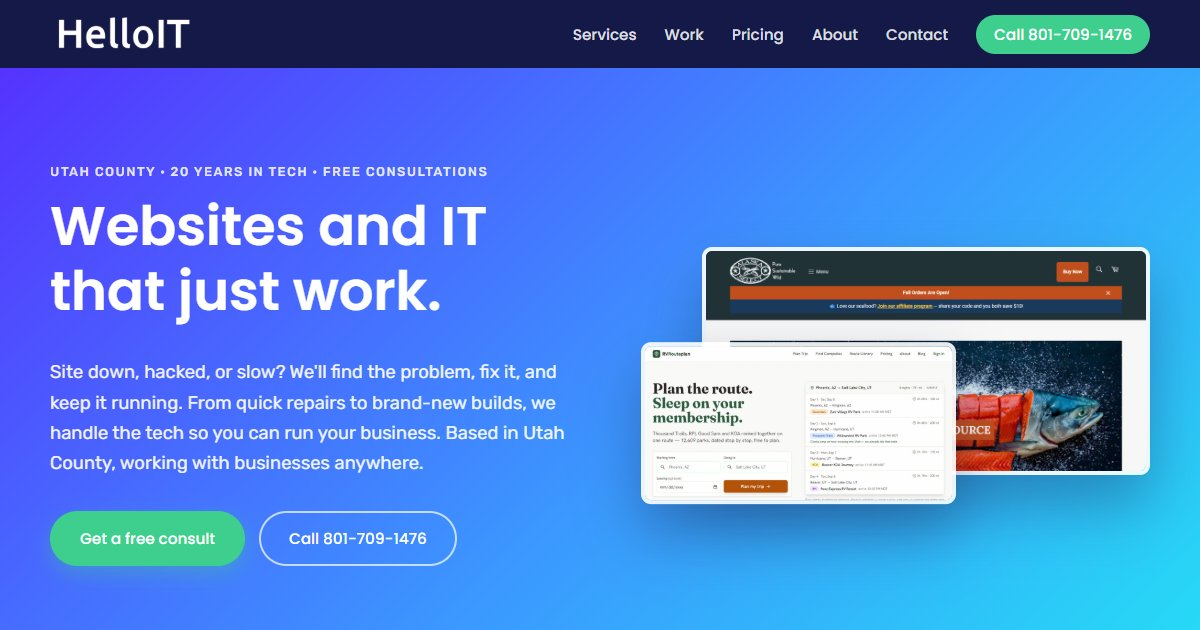
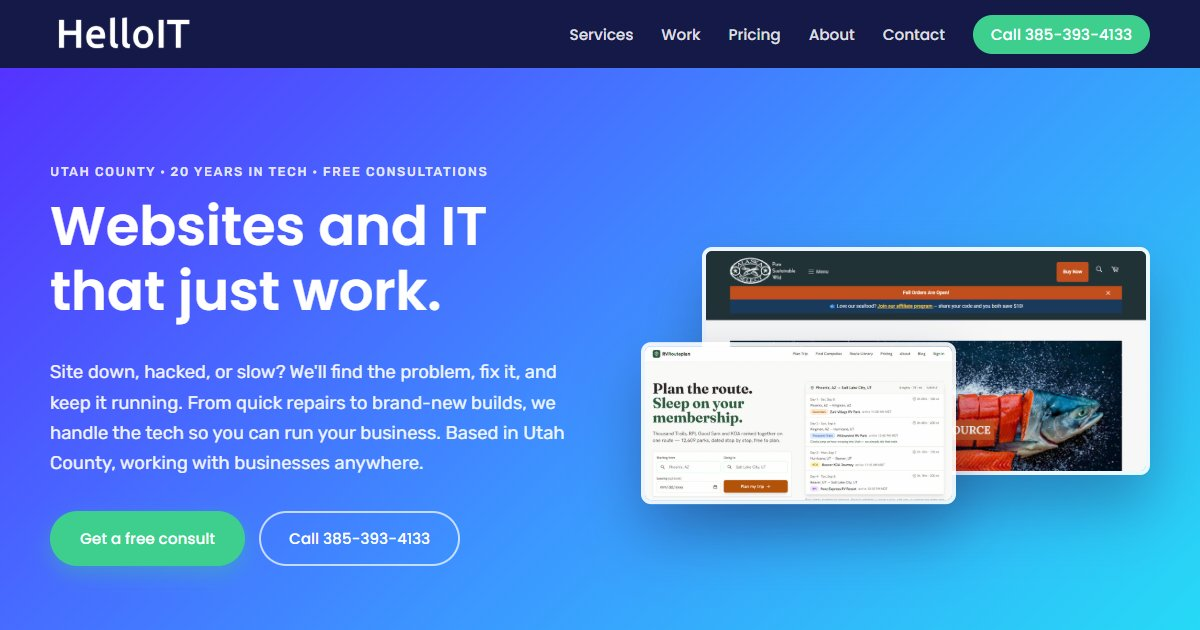
Switch public phone number to Google Voice line

Changed region(s): [[0.4625, 0.0302, 0.9558, 0.0905], [0.2775, 0.8143, 0.4008, 0.9048]]

diff --git a/index.html b/index.html
@@ -5,7 +5,7 @@
   <meta charset="utf-8">
   <meta name="viewport" content="width=device-width, initial-scale=1">
   <title>Website Repair, Web Design &amp; IT Support in Utah County | HelloIT</title>
-  <meta name="description" content="Site down, hacked, or slow? HelloIT fixes, builds, and maintains websites and provides IT support for Utah County businesses and beyond. Free consultations. Call 801-709-1476.">
+  <meta name="description" content="Site down, hacked, or slow? HelloIT fixes, builds, and maintains websites and provides IT support for Utah County businesses and beyond. Free consultations. Call 385-393-4133.">
   <link rel="canonical" href="https://buttonfortheinter.net/">
 
   <meta property="og:type" content="website">
@@ -24,7 +24,7 @@
     "url": "https://buttonfortheinter.net/",
     "logo": "https://buttonfortheinter.net/img/2.png",
     "image": "https://buttonfortheinter.net/img/share.jpg",
-    "telephone": "+1-801-709-1476",
+    "telephone": "+1-385-393-4133",
     "email": "hello@buttonfortheinter.net",
     "foundingDate": "2016",
     "address": { "@type": "PostalAddress", "addressRegion": "UT", "addressCountry": "US" },
@@ -50,7 +50,7 @@
   <header class="site-header">
     <nav class="container nav" aria-label="Main">
       <a href="index.html" class="nav-logo"><img src="img/logo.png" alt="HelloIT" width="250" height="70"></a>
-      <a class="nav-call-icon" href="tel:+18017091476" aria-label="Call 801-709-1476"><i class="lni-phone-handset"></i></a>
+      <a class="nav-call-icon" href="tel:+13853934133" aria-label="Call 385-393-4133"><i class="lni-phone-handset"></i></a>
       <button class="nav-toggle" type="button" aria-controls="nav-links" aria-expanded="false" aria-label="Toggle navigation">
         <i class="lni-menu"></i>
       </button>
@@ -60,7 +60,7 @@
         <li><a href="#pricing">Pricing</a></li>
         <li><a href="about-us.html">About</a></li>
         <li><a href="#contact">Contact</a></li>
-        <li><a class="nav-call" href="tel:+18017091476">Call 801-709-1476</a></li>
+        <li><a class="nav-call" href="tel:+13853934133">Call 385-393-4133</a></li>
       </ul>
     </nav>
   </header>
@@ -76,7 +76,7 @@
           <p>Site down, hacked, or slow? We'll find the problem, fix it, and keep it running. From quick repairs to brand-new builds, we handle the tech so you can run your business. Based in Utah County, working with businesses anywhere.</p>
           <div class="hero-actions">
             <a href="#contact" class="btn btn-primary">Get a free consult</a>
-            <a href="tel:+18017091476" class="btn btn-light">Call 801-709-1476</a>
+            <a href="tel:+13853934133" class="btn btn-light">Call 385-393-4133</a>
           </div>
         </div>
         <div class="hero-img hero-shots">
@@ -96,7 +96,7 @@
             Site still down, or hacked? Call now and talk directly to someone who can fix it.
           </div>
         </div>
-        <a href="tel:+18017091476" class="btn btn-primary">Call 801-709-1476</a>
+        <a href="tel:+13853934133" class="btn btn-primary">Call 385-393-4133</a>
       </div>
     </section>
 
@@ -366,7 +366,7 @@
           <aside class="contact-card">
             <h3>Prefer to talk?</h3>
             <p>Call or email directly. We usually respond within one business day.</p>
-            <a href="tel:+18017091476"><i class="lni-phone-handset"></i> 801-709-1476</a>
+            <a href="tel:+13853934133"><i class="lni-phone-handset"></i> 385-393-4133</a>
             <a href="mailto:hello@buttonfortheinter.net"><i class="lni-envelope"></i> hello@buttonfortheinter.net</a>
           </aside>
         </div>
@@ -386,7 +386,7 @@
           <li><a href="#pricing">Pricing</a></li>
           <li><a href="about-us.html">About</a></li>
           <li><a href="#contact">Contact</a></li>
-          <li><a href="tel:+18017091476">801-709-1476</a></li>
+          <li><a href="tel:+13853934133">385-393-4133</a></li>
         </ul>
       </div>
       <p class="copyright">&copy; <span id="year">2026</span> HelloIT LLC &middot; Utah County, Utah &middot; Websites and IT support since 2016.</p>

diff --git a/404.html b/404.html
@@ -22,7 +22,7 @@
   <header class="site-header">
     <nav class="container nav" aria-label="Main">
       <a href="/index.html" class="nav-logo"><img src="/img/logo.png" alt="HelloIT" width="250" height="70"></a>
-      <a class="nav-call-icon" href="tel:+18017091476" aria-label="Call 801-709-1476"><i class="lni-phone-handset"></i></a>
+      <a class="nav-call-icon" href="tel:+13853934133" aria-label="Call 385-393-4133"><i class="lni-phone-handset"></i></a>
       <button class="nav-toggle" type="button" aria-controls="nav-links" aria-expanded="false" aria-label="Toggle navigation">
         <i class="lni-menu"></i>
       </button>
@@ -32,7 +32,7 @@
         <li><a href="/index.html#pricing">Pricing</a></li>
         <li><a href="/about-us.html">About</a></li>
         <li><a href="/index.html#contact">Contact</a></li>
-        <li><a class="nav-call" href="tel:+18017091476">Call 801-709-1476</a></li>
+        <li><a class="nav-call" href="tel:+13853934133">Call 385-393-4133</a></li>
       </ul>
     </nav>
   </header>
@@ -47,7 +47,7 @@
     <section class="section">
       <div class="container prose">
         <p>We tried turning it off and on again, but this page still isn't here. It may have moved or never existed. Try the home page, or give us a call if you need help.</p>
-        <p><a class="btn btn-primary" href="/index.html">Go to home page</a> <a class="btn btn-outline" href="tel:+18017091476">Call 801-709-1476</a></p>
+        <p><a class="btn btn-primary" href="/index.html">Go to home page</a> <a class="btn btn-outline" href="tel:+13853934133">Call 385-393-4133</a></p>
       </div>
     </section>
   </main>
@@ -63,7 +63,7 @@
           <li><a href="/index.html#pricing">Pricing</a></li>
           <li><a href="/about-us.html">About</a></li>
           <li><a href="/index.html#contact">Contact</a></li>
-          <li><a href="tel:+18017091476">801-709-1476</a></li>
+          <li><a href="tel:+13853934133">385-393-4133</a></li>
         </ul>
       </div>
       <p class="copyright">&copy; <span id="year">2026</span> HelloIT LLC &middot; Utah County, Utah &middot; Websites and IT support since 2016.</p>

diff --git a/thanks.html b/thanks.html
@@ -22,7 +22,7 @@
   <header class="site-header">
     <nav class="container nav" aria-label="Main">
       <a href="index.html" class="nav-logo"><img src="img/logo.png" alt="HelloIT" width="250" height="70"></a>
-      <a class="nav-call-icon" href="tel:+18017091476" aria-label="Call 801-709-1476"><i class="lni-phone-handset"></i></a>
+      <a class="nav-call-icon" href="tel:+13853934133" aria-label="Call 385-393-4133"><i class="lni-phone-handset"></i></a>
       <button class="nav-toggle" type="button" aria-controls="nav-links" aria-expanded="false" aria-label="Toggle navigation">
         <i class="lni-menu"></i>
       </button>
@@ -32,7 +32,7 @@
         <li><a href="index.html#pricing">Pricing</a></li>
         <li><a href="about-us.html">About</a></li>
         <li><a href="index.html#contact">Contact</a></li>
-        <li><a class="nav-call" href="tel:+18017091476">Call 801-709-1476</a></li>
+        <li><a class="nav-call" href="tel:+13853934133">Call 385-393-4133</a></li>
       </ul>
     </nav>
   </header>
@@ -47,7 +47,7 @@
     <section class="section">
       <div class="container prose">
         <p>We'll review the details and get back to you with next steps. If your website is down or something can't wait, call us now.</p>
-        <p><a class="btn btn-primary" href="tel:+18017091476">Call 801-709-1476</a> <a class="btn btn-outline" href="index.html">Back to home</a></p>
+        <p><a class="btn btn-primary" href="tel:+13853934133">Call 385-393-4133</a> <a class="btn btn-outline" href="index.html">Back to home</a></p>
       </div>
     </section>
   </main>
@@ -63,7 +63,7 @@
           <li><a href="index.html#pricing">Pricing</a></li>
           <li><a href="about-us.html">About</a></li>
           <li><a href="index.html#contact">Contact</a></li>
-          <li><a href="tel:+18017091476">801-709-1476</a></li>
+          <li><a href="tel:+13853934133">385-393-4133</a></li>
         </ul>
       </div>
       <p class="copyright">&copy; <span id="year">2026</span> HelloIT LLC &middot; Utah County, Utah &middot; Websites and IT support since 2016.</p>

diff --git a/about-us.html b/about-us.html
@@ -25,7 +25,7 @@
   <header class="site-header">
     <nav class="container nav" aria-label="Main">
       <a href="index.html" class="nav-logo"><img src="img/logo.png" alt="HelloIT" width="250" height="70"></a>
-      <a class="nav-call-icon" href="tel:+18017091476" aria-label="Call 801-709-1476"><i class="lni-phone-handset"></i></a>
+      <a class="nav-call-icon" href="tel:+13853934133" aria-label="Call 385-393-4133"><i class="lni-phone-handset"></i></a>
       <button class="nav-toggle" type="button" aria-controls="nav-links" aria-expanded="false" aria-label="Toggle navigation">
         <i class="lni-menu"></i>
       </button>
@@ -35,7 +35,7 @@
         <li><a href="index.html#pricing">Pricing</a></li>
         <li><a href="about-us.html" aria-current="page">About</a></li>
         <li><a href="index.html#contact">Contact</a></li>
-        <li><a class="nav-call" href="tel:+18017091476">Call 801-709-1476</a></li>
+        <li><a class="nav-call" href="tel:+13853934133">Call 385-393-4133</a></li>
       </ul>
     </nav>
   </header>
@@ -73,7 +73,7 @@
           <li><a href="index.html#pricing">Pricing</a></li>
           <li><a href="about-us.html">About</a></li>
           <li><a href="index.html#contact">Contact</a></li>
-          <li><a href="tel:+18017091476">801-709-1476</a></li>
+          <li><a href="tel:+13853934133">385-393-4133</a></li>
         </ul>
       </div>
       <p class="copyright">&copy; <span id="year">2026</span> HelloIT LLC &middot; Utah County, Utah &middot; Websites and IT support since 2016.</p>
